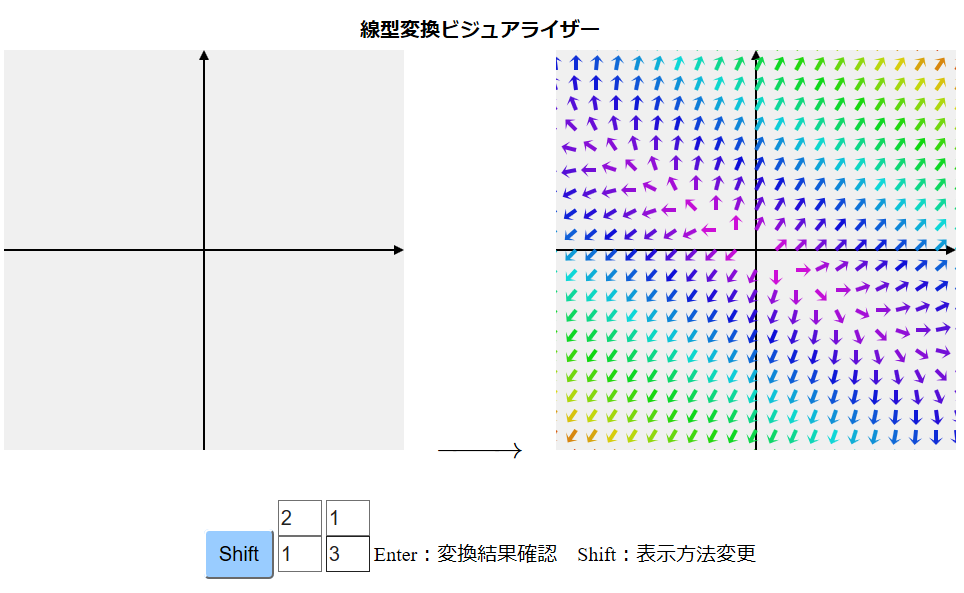
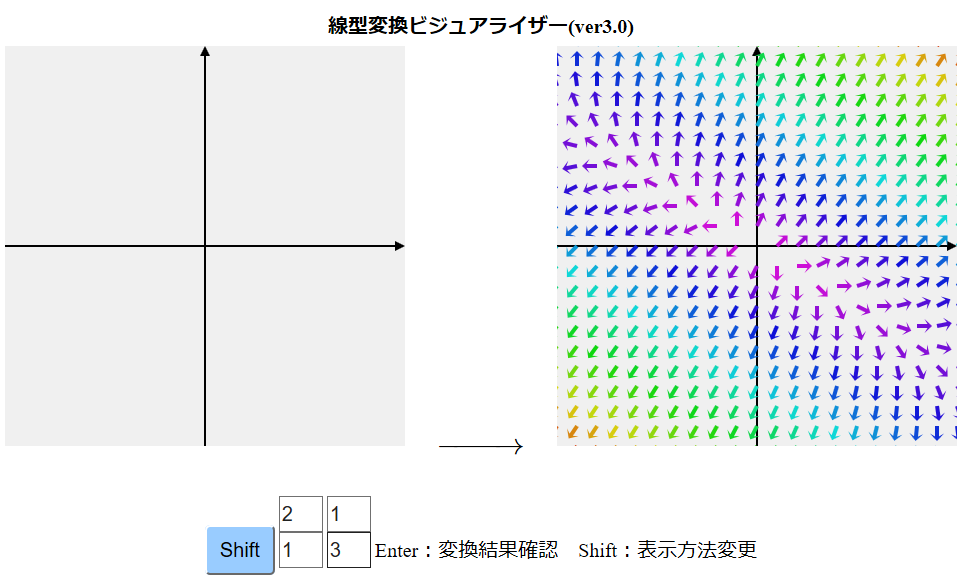
ver番号とsample画像を追加

diff --git a/index.html b/index.html
@@ -35,7 +35,7 @@
     <!-- 図式を使うための宣言（矢印借りるだけ） -->
     \( \require{AMScd} \)
     <div class = "heading">
-      <b>線型変換ビジュアライザー</b>
+      <b>線型変換ビジュアライザー(ver3.0)</b>
     </div>
     <div class = "field">
       <!-- 400×400にした -->
